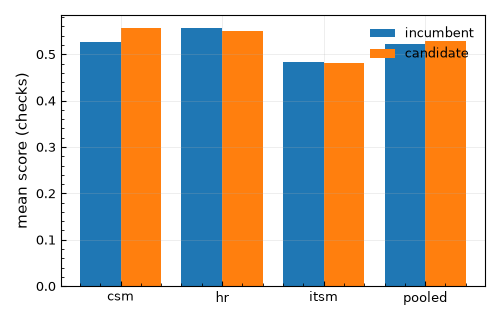
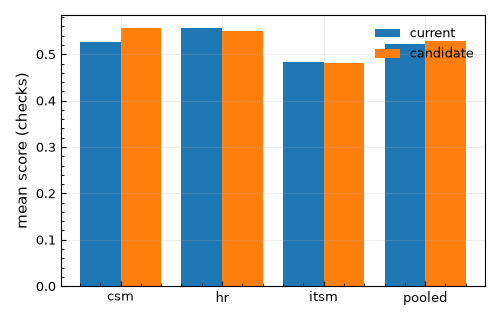
say current harness, not incumbent, throughout the statistics module and its documentation

Changed region(s): [[0.78, 0.0938, 0.96, 0.1875], [0.72, 0.1562, 0.75, 0.1875], [0.72, 0.0938, 0.75, 0.125]]

diff --git a/src/mas_optimiser/stats/gate.py b/src/mas_optimiser/stats/gate.py
@@ -1,7 +1,7 @@
 """The acceptance gate's test, its companion, and what the data can detect.
 
 The null hypothesis is that the candidate's true mean per-task gain over the
-incumbent is at most zero. ``mean_test`` compares the observed mean, in units
+current is at most zero. ``mean_test`` compares the observed mean, in units
 of its standard error, with the normal quantile at the decision's Type-I
 error level ``alpha``; the candidate is kept when the statistic crosses it.
 ``detectable`` gives the smallest true gain the test finds with a chosen
@@ -63,7 +63,7 @@ def mean_test(d: np.ndarray, alpha: float = 0.05) -> MeanTest:
     than Student's t; at 125 tasks the two thresholds differ by 0.01.
 
     Args:
-        d: The per-task differences, candidate minus incumbent.
+        d: The per-task differences, candidate minus current.
         alpha: The Type-I error allowed for this decision.
 
     Returns:
@@ -104,7 +104,7 @@ class SignTest:
 
     Attributes:
         n_plus: Tasks where the candidate scored higher.
-        n_minus: Tasks where the incumbent scored higher.
+        n_minus: Tasks where the current harness scored higher.
         p: ``P(Bin(n_plus + n_minus, 1/2) >= n_plus)``; 1 when no task changed.
         alpha: The Type-I error level the decision was made at.
         accept: Whether ``p`` is at most ``alpha``.
@@ -127,7 +127,7 @@ def sign_test(d: np.ndarray, alpha: float = 0.05) -> SignTest:
     their distribution, at the price of some power.
 
     Args:
-        d: The per-task differences, candidate minus incumbent.
+        d: The per-task differences, candidate minus current.
         alpha: The Type-I error allowed for this decision.
 
     Returns:
@@ -273,7 +273,7 @@ def permutation_test(
     reproducible.
 
     Args:
-        d: The per-task differences, candidate minus incumbent.
+        d: The per-task differences, candidate minus current.
         alpha: The Type-I error allowed for this decision.
         draws: The number of random relabellings.
         seed: The seed of the random relabellings.
@@ -317,7 +317,7 @@ def bootstrap(
     ``alpha`` quantile. With a fixed ``seed`` the result is reproducible.
 
     Args:
-        d: The per-task differences, candidate minus incumbent.
+        d: The per-task differences, candidate minus current.
         alpha: One minus the confidence of the lower bound.
         draws: The number of resamples.
         seed: The seed of the resampling.

diff --git a/src/mas_optimiser/stats/compare.py b/src/mas_optimiser/stats/compare.py
@@ -4,7 +4,7 @@
         [--split <name or file>] [--subset validation] [--outcome checks]
         [--alpha 0.05] [--out <folder>]
 
-Each side is one evaluation per domain; ``--a`` is the incumbent, ``--b`` the
+Each side is one evaluation per domain; ``--a`` is the current harness, ``--b`` the
 candidate. The command writes ``comparison.md`` (the gate's test, its
 companions and the decision rules, pooled and per domain, for both outcomes),
 ``differences.csv`` (one row per task) and ``figures/`` (each figure as PDF
@@ -27,7 +27,7 @@ LABELS = {"checks": "Fraction of checks passed", "success": "Task success"}
 COLUMNS = [
     "set",
     "tasks",
-    "incumbent",
+    "current",
     "candidate",
     "gain (points)",
     "SE (points)",
@@ -56,7 +56,7 @@ def add_arguments(parser: argparse.ArgumentParser) -> None:
         required=True,
         type=Path,
         metavar="EVALUATION",
-        help="an incumbent evaluation; repeat for each domain",
+        help="an evaluation of the current harness; repeat for each domain",
     )
     parser.add_argument(
         "--b",
@@ -194,7 +194,7 @@ def run(args: argparse.Namespace) -> None:
     names = (
         "candidate "
         + ", ".join(p.name for p in args.b)
-        + " against incumbent "
+        + " against current "
         + ", ".join(p.name for p in args.a)
     )
     where = (
@@ -205,7 +205,7 @@ def run(args: argparse.Namespace) -> None:
     lines = [
         f"# Comparison: {names}",
         "",
-        f"Candidate (second) against incumbent (first) on {where}: {len(primary.tasks)} "
+        f"Candidate (second) against current (first) on {where}: {len(primary.tasks)} "
         f"tasks. Scores are per-task means over attempts; a point is a hundredth. "
         f"Decisions at level {args.alpha:g}, one-sided.",
         "",

diff --git a/src/mas_optimiser/stats/figures.py b/src/mas_optimiser/stats/figures.py
@@ -81,7 +81,7 @@ def differences(cmp: Comparison, out: Path) -> Path:
             header = ["bin_low", "bin_high", "tasks"]
         ax.axvline(0, color="black", linewidth=0.8)
         ax.axvline(d.mean(), color="C3", linewidth=1.2, label=f"mean {d.mean():+.3f}")
-        ax.set_xlabel(f"per-task difference, candidate minus incumbent ({cmp.outcome})")
+        ax.set_xlabel(f"per-task difference, candidate minus current ({cmp.outcome})")
         ax.set_ylabel("tasks")
         ax.legend()
     return _save(fig, out, "differences", header, rows)
@@ -187,7 +187,7 @@ def domains(cmp: Comparison, out: Path) -> Path:
     positions = np.arange(len(names))
     with plt.style.context(STYLE):
         fig, ax = plt.subplots()
-        ax.bar(positions - 0.2, a, width=0.4, label="incumbent")
+        ax.bar(positions - 0.2, a, width=0.4, label="current")
         ax.bar(positions + 0.2, b, width=0.4, label="candidate")
         ax.set_xticks(positions, names)
         ax.set_ylabel(f"mean score ({cmp.outcome})")
@@ -206,6 +206,6 @@ def domains(cmp: Comparison, out: Path) -> Path:
         fig,
         out,
         "domains",
-        ["set", "tasks", "incumbent", "candidate", "difference"],
+        ["set", "tasks", "current", "candidate", "difference"],
         rows,
     )

diff --git a/src/mas_optimiser/stats/outcomes.py b/src/mas_optimiser/stats/outcomes.py
@@ -64,7 +64,7 @@ class Comparison:
     Attributes:
         tasks: The task ids, in a fixed order (by domain, then id).
         domains: Each task's domain, aligned with ``tasks``.
-        a: The incumbent's per-task scores, aligned with ``tasks``.
+        a: The current harness's per-task scores, aligned with ``tasks``.
         b: The candidate's per-task scores, aligned with ``tasks``.
         outcome: The outcome the scores are, one of ``OUTCOMES``.
     """
@@ -118,7 +118,7 @@ def paired(
     scored. The two sides must then cover the same tasks.
 
     Args:
-        a: The incumbent's evaluations.
+        a: The current harness's evaluations.
         b: The candidate's evaluations.
         outcome: The outcome to score, one of ``OUTCOMES``.
         split: A split's name or path (``splits.load_split``), or ``None``.

diff --git a/docs/figures/gate/comparison.md b/docs/figures/gate/comparison.md
@@ -1,10 +1,10 @@
-# Comparison: 20261027-052820-itsm, 20261027-055013-csm, 20261027-061153-hr against 20261103-080328-itsm, 20261103-082642-csm, 20261103-085112-hr
+# Comparison: candidate 20261103-080328-itsm, 20261103-082642-csm, 20261103-085112-hr against current 20261027-052820-itsm, 20261027-055013-csm, 20261027-061153-hr
 
-Candidate (second) against incumbent (first) on the validation tasks of split haiku-20-40-40: 125 tasks. Scores are per-task means over attempts; a point is a hundredth. Decisions at level 0.05, one-sided.
+Candidate (second) against current (first) on the validation tasks of split haiku-20-40-40: 125 tasks. Scores are per-task means over attempts; a point is a hundredth. Decisions at level 0.05, one-sided.
 
 ## Fraction of checks passed (the gate's outcome)
 
-| set | tasks | incumbent | candidate | gain (points) | SE (points) | T | X0 | p | verdict | detectable (points) | sign test (up/down, p) | permutation p | bootstrap SE (points) | lower bound (points) | Bernstein bound (points) |
+| set | tasks | current | candidate | gain (points) | SE (points) | T | X0 | p | verdict | detectable (points) | sign test (up/down, p) | permutation p | bootstrap SE (points) | lower bound (points) | Bernstein bound (points) |
 |---|---|---|---|---|---|---|---|---|---|---|---|---|---|---|---|
 | pooled | 125 | 0.522 | 0.529 | +0.71 | 1.36 | +0.52 | 1.645 | 0.300 | reject | 3.4 | 32/27, 0.301 | 0.304 | 1.37 | -1.52 | -8.37 |
 | csm | 42 | 0.527 | 0.557 | +2.95 | 2.60 | +1.14 | 1.645 | 0.128 | reject | 6.5 | 13/8, 0.192 | 0.130 | 2.57 | -1.32 | -20.44 |
@@ -13,7 +13,7 @@ Candidate (second) against incumbent (first) on the validation tasks of split ha
 
 ## Task success
 
-| set | tasks | incumbent | candidate | gain (points) | SE (points) | T | X0 | p | verdict | detectable (points) | sign test (up/down, p) | permutation p | bootstrap SE (points) | lower bound (points) | Bernstein bound (points) |
+| set | tasks | current | candidate | gain (points) | SE (points) | T | X0 | p | verdict | detectable (points) | sign test (up/down, p) | permutation p | bootstrap SE (points) | lower bound (points) | Bernstein bound (points) |
 |---|---|---|---|---|---|---|---|---|---|---|---|---|---|---|---|
 | pooled | 125 | 0.205 | 0.227 | +2.13 | 1.96 | +1.09 | 1.645 | 0.138 | reject | 4.9 | 17/13, 0.292 | 0.137 | 1.97 | -1.09 | -8.41 |
 | csm | 42 | 0.214 | 0.270 | +5.56 | 3.75 | +1.48 | 1.645 | 0.069 | reject | 9.3 | 10/4, 0.090 | 0.087 | 3.68 | -0.62 | -20.42 |

diff --git a/README.md b/README.md
@@ -214,7 +214,7 @@ Every evaluation folder is written to be read without a tracing server:
 | the tasks' policy, request, checks and tools | the dataset and `vendor/enterpriseops-gym/data/revised/`; the corrections in `data/check_patches.json` | |
 | the tables a domain has, with keys and references | `docs/data-model/<domain>.md`; the schema in `data/schemas/<domain>.sql` | `mas-optimiser schema` |
 | which tasks are training, validation and test | `configs/splits/<name>.json` | `mas-optimiser split` |
-| whether a candidate beat the incumbent, by how much, and the smallest gain the data could show | `comparison.md` and `figures/` in the folder `mas-optimiser compare` writes | `stats.compare` |
+| whether a candidate beat the current harness, by how much, and the smallest gain the data could show | `comparison.md` and `figures/` in the folder `mas-optimiser compare` writes | `stats.compare` |
 
 ## Splitting the tasks
 
@@ -304,7 +304,7 @@ judges on.
 mas-optimiser compare --a <evaluation> [--a ...] --b <evaluation> [--b ...] [--split <name>] [--out <folder>]
 ```
 
-Compares a candidate (`--b`) with an incumbent (`--a`) task by task, each
+Compares a candidate (`--b`) with the current harness (`--a`) task by task, each
 side one evaluation per domain, on the tasks of a split's set (the
 validation set by default) or on every task both sides scored. It writes
 `comparison.md` with the paired test, its companions and the decision

diff --git a/docs/methodology/acceptance-gate.md b/docs/methodology/acceptance-gate.md
@@ -1,7 +1,7 @@
 # The acceptance gate
 
 The optimiser proposes a changed harness, the candidate, and must decide
-whether it is better than the harness it has, the incumbent. The decision is
+whether it is better than the harness it has, the current one (the papers call it the current harness). The decision is
 made on the validation tasks and is a statistical test: the candidate's gain
 has to be larger than the gain that chance alone produces between two runs of
 one and the same harness. This page defines the quantities, states the test
@@ -22,7 +22,7 @@ baselines). Two outcomes score an attempt:
 
 A task's score under a harness is the mean of its attempts' outcomes. With
 task success and three attempts it is one of $0, 1/3, 2/3, 1$; with the
-fraction it takes many values. For a candidate $B$ and an incumbent $A$ run
+fraction it takes many values. For a candidate $B$ and the current harness $A$ run
 on the same $N$ tasks, the per-task difference is
 
 $$d_i = \text{score}_i(B) - \text{score}_i(A), \qquad i = 1, \dots, N,$$
